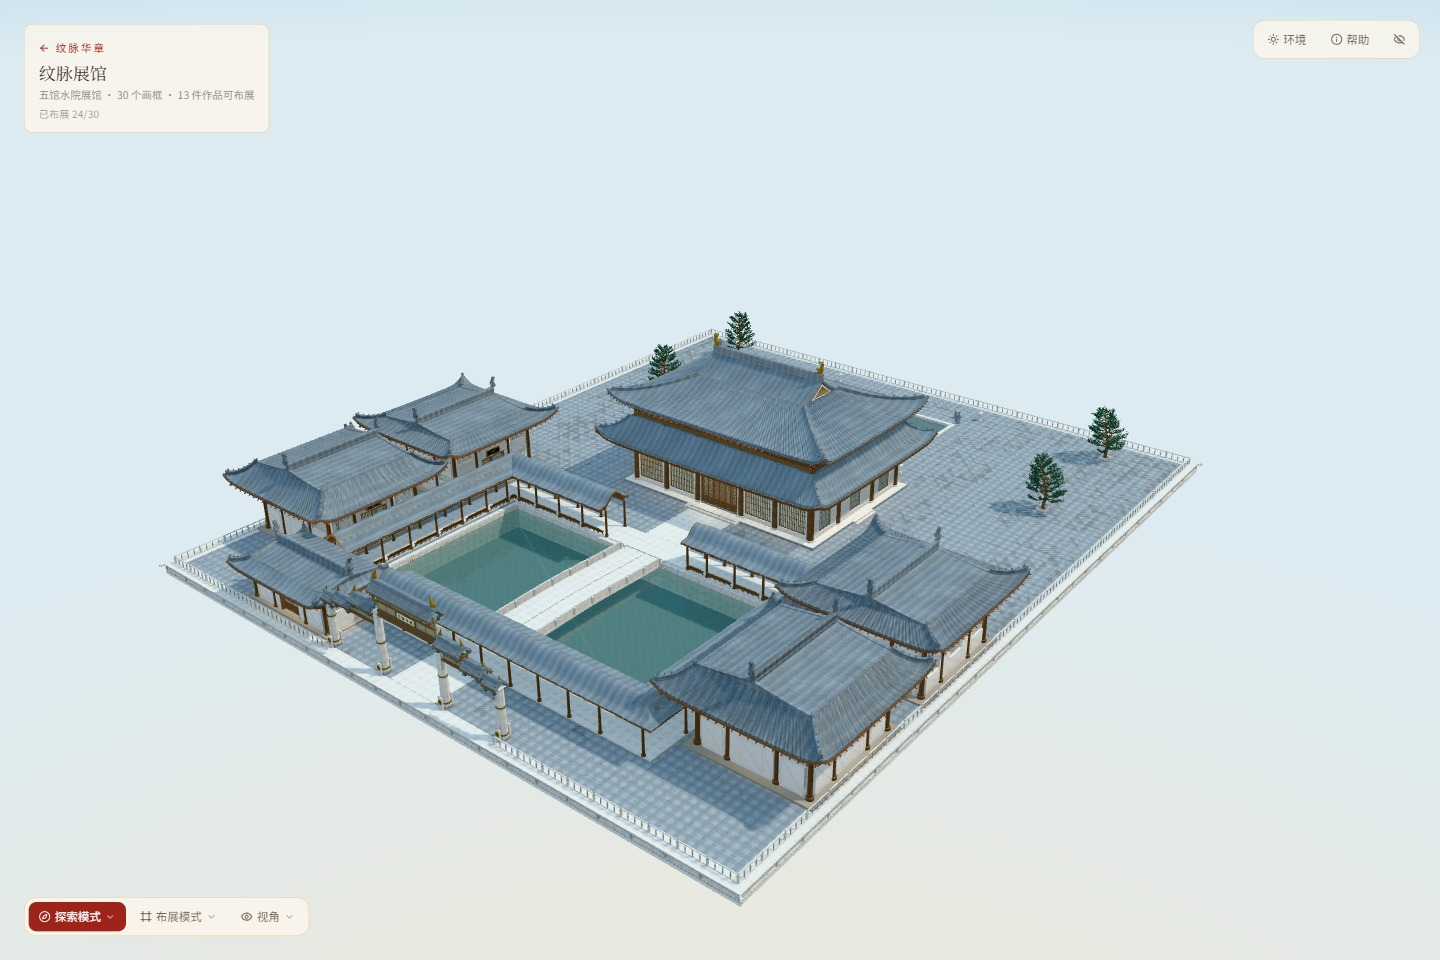
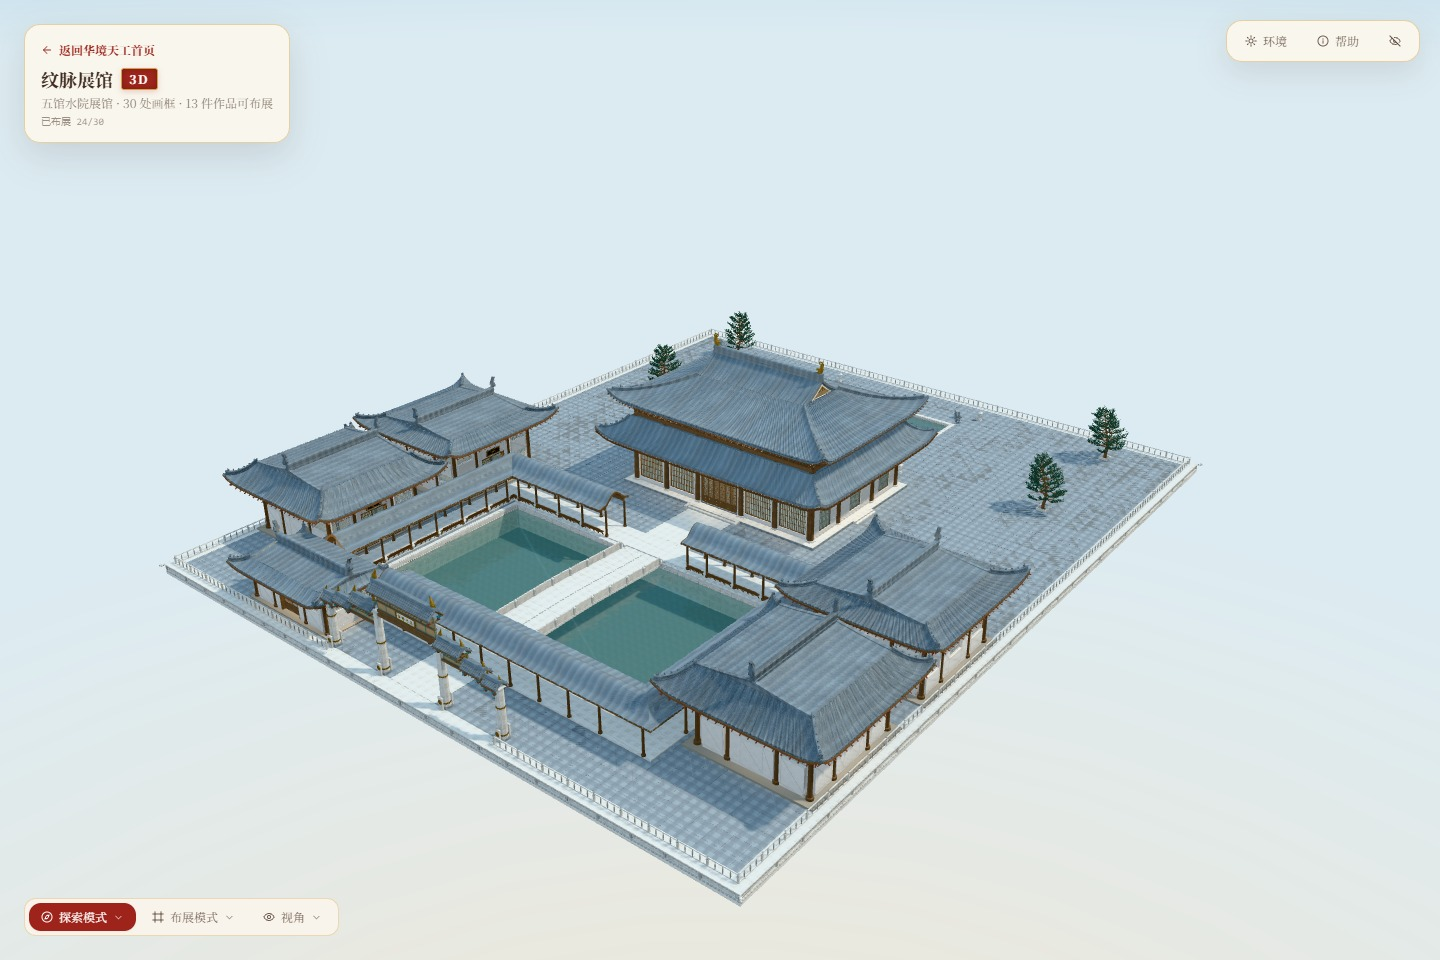
Adopt Huajing Tiangong UI branding and gallery plaque

Changed region(s): [[0.0, 0.0312, 0.2188, 0.1562], [0.0, 0.9375, 0.2188, 0.9688], [0.8438, 0.0, 0.9688, 0.0625]]

diff --git a/frontend/src/features/heritage-gallery/scene/GalleryModel.tsx b/frontend/src/features/heritage-gallery/scene/GalleryModel.tsx
@@ -4,9 +4,11 @@ import * as THREE from 'three';
 import { GLTFLoader, type GLTF } from 'three/addons/loaders/GLTFLoader.js';
 
 const MODEL_URL = `${import.meta.env.BASE_URL}models/pavilion-v15/model.json`;
+type PavilionModel = GLTF & { gatePlaque?: THREE.Group };
+
 /** Independent gzip parts keep every authored byte while fitting repository file limits. */
-class PavilionLoader extends THREE.Loader<GLTF> {
-  load(url: string, onLoad: (gltf: GLTF) => void, _progress?: unknown, onError?: (e: unknown) => void) {
+class PavilionLoader extends THREE.Loader<PavilionModel> {
+  load(url: string, onLoad: (gltf: PavilionModel) => void, _progress?: unknown, onError?: (e: unknown) => void) {
     (async () => {
       const absolute = new URL(url, window.location.href);
       const response = await fetch(absolute);
@@ -23,20 +25,72 @@ class PavilionLoader extends THREE.Loader<GLTF> {
         binary.set(bytes, offset); offset += bytes.length;
       }
       if (offset !== manifest.bytes) throw new Error('展馆文件长度不符');
-      return new GLTFLoader(this.manager).parseAsync(binary.buffer, absolute.href);
+      const loader = new GLTFLoader(this.manager);
+      const [model, gatePlaque] = await Promise.all([
+        loader.parseAsync(binary.buffer, absolute.href),
+        manifest.gatePlaque ? loader.loadAsync(new URL(manifest.gatePlaque, absolute).href) : undefined,
+      ]);
+      return { ...model, gatePlaque: gatePlaque?.scene };
     })().then(onLoad, onError);
   }
 }
 export interface GalleryLayers { roof: THREE.Object3D[]; roofOutlines: THREE.Mesh[]; meshes: THREE.Mesh[] }
 export interface GalleryAssets {root: THREE.Group; layers: GalleryLayers; stats: {meshes:number;materials:number;triangles:number;lookDevMaterials:number;lookDevTweaked:number}}
-function prepare(scene: THREE.Group): GalleryAssets {
+
+function replaceGatePlaque(root: THREE.Group, replacement: THREE.Group) {
+  const bronze = root.getObjectByName('MESH_bronze');
+  const plaque = replacement.getObjectByName('gate_bianzi');
+  if (!(bronze instanceof THREE.Mesh) || !(plaque instanceof THREE.Mesh) ||
+      !(bronze.material instanceof THREE.MeshStandardMaterial)) {
+    throw new Error('展馆门匾网格不完整');
+  }
+
+  // The v15 export combines all bronze geometry. Only the old lettering fits this local box.
+  const box = new THREE.Box3(
+    new THREE.Vector3(-1.12, 7.35, 46.151),
+    new THREE.Vector3(1.12, 8.13, 46.176),
+  );
+  const geometry = bronze.geometry;
+  const index = geometry.getIndex();
+  const position = geometry.getAttribute('position');
+  if (!index || !position) throw new Error('展馆门匾几何无效');
+  const point = new THREE.Vector3();
+  const kept = new Uint32Array(index.count);
+  let keptCount = 0;
+  for (let face = 0; face < index.count; face += 3) {
+    const first = index.getX(face);
+    const second = index.getX(face + 1);
+    const third = index.getX(face + 2);
+    if (box.containsPoint(point.fromBufferAttribute(position, first)) &&
+        box.containsPoint(point.fromBufferAttribute(position, second)) &&
+        box.containsPoint(point.fromBufferAttribute(position, third))) continue;
+    kept[keptCount++] = first;
+    kept[keptCount++] = second;
+    kept[keptCount++] = third;
+  }
+  if (index.count - keptCount !== 860 * 3) throw new Error('展馆门匾字形数量不匹配');
+  bronze.geometry = geometry.clone();
+  bronze.geometry.setIndex(new THREE.BufferAttribute(kept.subarray(0, keptCount), 1));
+
+  const lettering = plaque.clone();
+  lettering.material = bronze.material.clone();
+  // The door runtime reserves the name `bronze` for its merged structural mesh.
+  lettering.material.name = 'gate_plaque_bronze';
+  // The original AO texture is baked to the old lettering's UV layout.
+  lettering.material.aoMap = null;
+  bronze.add(lettering);
+  return bronze;
+}
+
+function prepare(scene: THREE.Group, gatePlaque?: THREE.Group): GalleryAssets {
   const root = scene.clone(true), meshes: THREE.Mesh[] = [], roof: THREE.Object3D[] = [];
+  const gateBronze = gatePlaque && replaceGatePlaque(root, gatePlaque);
   const mats = new Map<THREE.Material, THREE.Material>(); let triangles = 0;
   const remove: THREE.Object3D[] = [];
   root.traverse(object => {
     if ((object as THREE.Light).isLight || (object as THREE.Camera).isCamera) {remove.push(object); return;}
     const mesh = object as THREE.Mesh; if (!mesh.isMesh) return;
-    mesh.geometry = mesh.geometry.clone();
+    if (mesh !== gateBronze) mesh.geometry = mesh.geometry.clone();
     const clone = (original: THREE.Material) => {
       if (mats.has(original)) return mats.get(original)!;
       const m = original.clone() as THREE.MeshStandardMaterial;
@@ -57,5 +111,8 @@ function prepare(scene: THREE.Group): GalleryAssets {
   remove.forEach(o=>o.removeFromParent());root.updateMatrixWorld(true);
   return {root,layers:{roof,roofOutlines:[],meshes},stats:{meshes:meshes.length,materials:mats.size,triangles,lookDevMaterials:0,lookDevTweaked:0}};
 }
-export function useGalleryAssets(): GalleryAssets { const gltf=useLoader(PavilionLoader, MODEL_URL);return useMemo(()=>prepare(gltf.scene),[gltf.scene]); }
+export function useGalleryAssets(): GalleryAssets {
+  const { scene, gatePlaque } = useLoader(PavilionLoader, MODEL_URL);
+  return useMemo(() => prepare(scene, gatePlaque), [scene, gatePlaque]);
+}
 export function releaseGalleryAssets(_root: THREE.Object3D): void { /* Cached loader data is shared between route visits. */ }

diff --git a/frontend/src/components/Footer.tsx b/frontend/src/components/Footer.tsx
@@ -1,4 +1,5 @@
 import { projectBrand } from '../data/projectBrand';
+import { publicUrl } from '../features/culture-experience/utils/assets';
 import { Link } from 'react-router-dom';
 import { APP_VERSION } from '../version';
 import { Sparkles, Compass, Palette, Layout, ShieldCheck, Cpu } from 'lucide-react';
@@ -18,7 +19,7 @@ export default function Footer() {
             <div>
               <div className="flex items-center gap-3 mb-4">
                 <div className="flex h-10 w-10 items-center justify-center rounded-xl border border-gold/50 bg-white/80 shadow-xs">
-                  <img src="/leaf-logo.png" alt="" className="h-6 w-6 object-contain" />
+                  <img src={publicUrl('/leaf-logo.png')} alt="" className="h-6 w-6 object-contain" />
                 </div>
                 <div>
                   <div className="flex items-center gap-2">
@@ -149,7 +150,7 @@ export default function Footer() {
         <div className="pt-8 border-t border-gold/30 flex flex-col sm:flex-row items-center justify-between gap-4 text-xs text-ink/60">
           <div className="flex items-center gap-2">
             <span className="w-1.5 h-1.5 rounded-full bg-primary/70" />
-            <span>© 2026 {projectBrand.name}项目团队 · 传统文化视觉智能创作与文创应用平台</span>
+            <span>© 2026 {projectBrand.name}项目团队 · {projectBrand.subtitle}</span>
           </div>
           <div className="flex items-center gap-3 font-mono text-[11px] text-ink/50">
             <span className="px-2 py-0.5 rounded bg-white/60 border border-gold/20">

diff --git a/frontend/src/components/Navbar.tsx b/frontend/src/components/Navbar.tsx
@@ -1,4 +1,5 @@
 import { projectBrand } from '../data/projectBrand';
+import { publicUrl } from '../features/culture-experience/utils/assets';
 import { useEffect, useState } from 'react';
 import { Link, useLocation } from 'react-router-dom';
 import { cn } from '../lib/utils';
@@ -59,7 +60,7 @@ export default function Navbar() {
         >
           <div className="relative flex h-8 w-8 items-center justify-center rounded-lg border border-gold/40 bg-white/70 shadow-xs transition-transform duration-300 group-hover:-rotate-3 group-hover:scale-105">
             <img
-              src="/leaf-logo.png"
+              src={publicUrl('/leaf-logo.png')}
               alt=""
               aria-hidden="true"
               className="h-5 w-5 object-contain"
@@ -70,10 +71,10 @@ export default function Navbar() {
               <span className="font-serif text-lg font-bold tracking-[0.14em] text-ink sm:text-xl transition-colors group-hover:text-primary">
                 {projectBrand.name}
               </span>
-              <span className="chinese-seal text-[10px] hidden sm:inline-flex">华章</span>
+              <span className="chinese-seal text-[10px] hidden sm:inline-flex">{projectBrand.seal}</span>
             </div>
             <span className="text-[10px] tracking-[0.2em] font-serif text-primary/70 uppercase scale-90 origin-left hidden md:inline">
-              Wenmai Huazhang
+              {projectBrand.englishName}
             </span>
           </div>
         </Link>

diff --git a/frontend/src/pages/About.tsx b/frontend/src/pages/About.tsx
@@ -29,6 +29,7 @@ import {
 } from 'lucide-react';
 import { STYLES } from '../data/styleLibrary';
 import { uiPreviews } from '../data/uiPreviews';
+import { publicUrl } from '../features/culture-experience/utils/assets';
 
 const {
   creator: creatorShot,
@@ -685,7 +686,7 @@ export default function About() {
                   >
                     <motion.img
                       layoutId={`card-img-${activeCap.id}`}
-                      src={selectedSubShot || activeCap.image}
+                      src={publicUrl(selectedSubShot || activeCap.image)}
                       alt={activeCap.alt}
                       className={`w-full h-full ${
                         activeCap.id === 2 ? 'object-contain' : 'object-cover object-top'
@@ -828,7 +829,7 @@ export default function About() {
                   <div className="w-16 h-11 rounded-lg overflow-hidden border border-black/10 shrink-0 bg-black/5">
                     <motion.img
                       layoutId={`card-img-${card.id}`}
-                      src={card.image}
+                      src={publicUrl(card.image)}
                       alt={card.alt}
                       className="w-full h-full object-cover group-hover:scale-110 transition-transform duration-500"
                     />

diff --git a/frontend/src/version.ts b/frontend/src/version.ts
@@ -3,18 +3,20 @@
  * SPDX-License-Identifier: Apache-2.0
  */
 
+import { projectBrand } from './data/projectBrand';
+
 export const APP_VERSION = {
   version: '2.4.2-competition-ready',
   buildTag: '2026.11-competition-ready',
-  edition: '传统文化视觉智能创作与沉浸式文创应用平台',
-  releaseName: '纹脉华章 VNext 历史作品一致性与竞赛级品质验收版',
+  edition: projectBrand.subtitle,
+  releaseName: `${projectBrand.name} VNext 历史作品一致性与竞赛级品质验收版`,
   updatedAt: '2026-11-16',
 };
 
 if (typeof window !== 'undefined') {
   // eslint-disable-next-line no-console
   console.info(
-    `%c 纹脉华章 %c ${APP_VERSION.version} (${APP_VERSION.buildTag}) %c`,
+    `%c ${projectBrand.name} %c ${APP_VERSION.version} (${APP_VERSION.buildTag}) %c`,
     'background: #9E241B; color: #fff; padding: 3px 6px; border-radius: 3px 0 0 3px; font-weight: bold; font-family: serif;',
     'background: #D2A14A; color: #3F2B1F; padding: 3px 6px; border-radius: 0 3px 3px 0; font-weight: bold;',
     'background: transparent;'

diff --git a/frontend/src/pages/Home.tsx b/frontend/src/pages/Home.tsx
@@ -109,12 +109,12 @@ export default function Home() {
           {/* 巨幅主标题 */}
           <h1 className="text-4xl sm:text-5xl lg:text-6xl font-serif font-black tracking-tight leading-[1.18] mb-6 text-ink">
             {projectBrand.name}
-            <div className="mt-3 flex items-center gap-3 flex-wrap">
-              <span className="text-xl sm:text-2xl lg:text-3xl font-medium text-primary tracking-wide">
-                以纹为引 · 入画成境
+            <span className="mt-3 flex items-center gap-3 flex-wrap">
+              <span className="text-xl sm:text-2xl font-medium text-primary tracking-wide">
+                {projectBrand.subtitle}
               </span>
               <span className="chinese-seal text-[11px]">数字非遗</span>
-            </div>
+            </span>
           </h1>
 
           {/* 核心阐释 */}

diff --git a/frontend/src/components/scenarios/CultureCardDeck.tsx b/frontend/src/components/scenarios/CultureCardDeck.tsx
@@ -2,6 +2,7 @@ import { useState } from 'react';
 import { Link } from 'react-router-dom';
 import { motion, AnimatePresence } from 'motion/react';
 import { FileText, Palette, Scissors, ArrowRight, CheckCircle2, ZoomIn } from 'lucide-react';
+import { publicUrl } from '../../features/culture-experience/utils/assets';
 
 interface CardOption {
   id: string;
@@ -95,7 +96,7 @@ export function CultureCardDeck() {
             }`}
           >
             <img
-              src={selectedCard.src}
+              src={publicUrl(selectedCard.src)}
               alt={selectedCard.alt}
               className="w-full h-full object-cover select-none group-hover:scale-105 transition-transform duration-700"
             />

diff --git a/assets/gallery3d/pavilion/src/blender/pavilionlib/parts13/gate.py b/assets/gallery3d/pavilion/src/blender/pavilionlib/parts13/gate.py
@@ -41,6 +41,7 @@ Z_CAP = 0.26                      # 柱础方座高
 Z_PAI = 6.55                      # 5 道短枋底
 Z_PAI_N = 5
 Z_BIAN0, Z_BIAN1 = 7.34, 8.14     # 金匾 0.80
+PLAQUE_NAME = "华境天工"
 Z_DG0, Z_DG1 = 8.25, 9.41         # 明间斗拱带
 Z_EAVE_M = 9.55                   # 主楼檐口
 # 次间 stack
@@ -591,10 +592,8 @@ def build(C):
                 _collar(bm_br,xc,zz,.035,zt)
 
     # ---- 额枋 / 花板 / 斗拱 / 金匾
-    # 明间金匾：汉白玉匾心正面加「文脉华章」四字鎏金匾额（匾心前面 y = GY-0.155）
-    bm_tx = mu.new_bm()
-    _plaque_text(bm_tx, "文脉华章", 0.46, GY - 0.163,
-                 (Z_BIAN0 + Z_BIAN1) * 0.5, step=0.56)
+    # 明间金匾：汉白玉匾心正面加四字鎏金匾额（匾心前面 y = GY-0.155）
+    bm_tx = plaque_mesh()
     openings=[]
     sockets=[]
 
@@ -669,6 +668,15 @@ def build(C):
           "stone_lite", flat=True)
     _emit(C, bm_tx, M, "gate_bianzi", "detail", coll, cn + "·鎏金匾字",
           "bronze", flat=True)
+
+
+def plaque_mesh():
+    bm = mu.new_bm()
+    _plaque_text(bm, PLAQUE_NAME, 0.46, GY - 0.163,
+                 (Z_BIAN0 + Z_BIAN1) * 0.5, step=0.56)
+    return bm
+
+
 def _plaque_text(bm, text, size, yface, cz, step=0.56):
     """在 y=yface 的竖直面上排一行居中宋体字（匾额用）。
 
